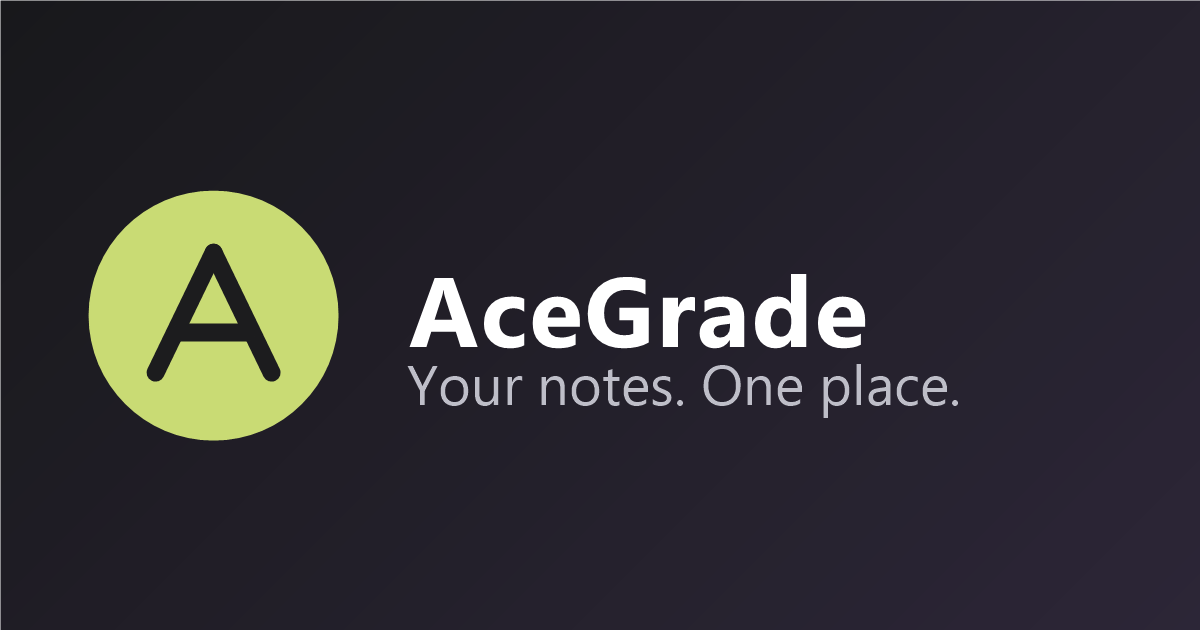
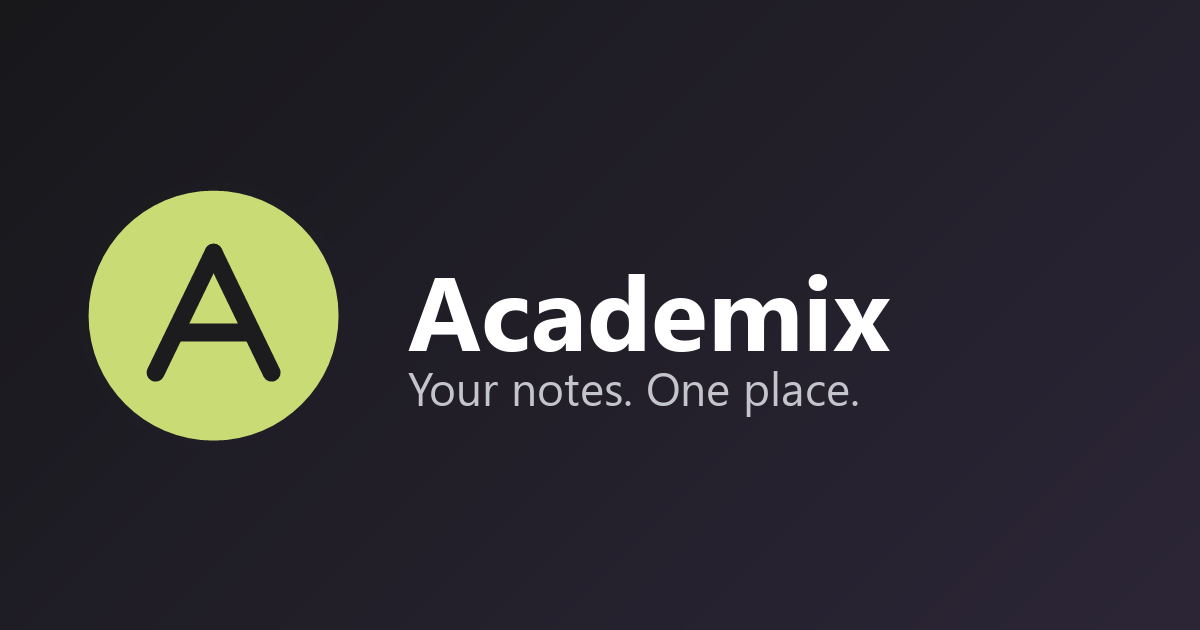
Added the SEO part

Changed region(s): [[0.3392, 0.4222, 0.8017, 0.6635]]

diff --git a/notes/engineering-mathematics-ii/index.html b/notes/engineering-mathematics-ii/index.html
@@ -13,13 +13,13 @@
   <meta property="og:url" content="https://academix.syntaxsyndicate.co.in/notes/engineering-mathematics-ii/">
   <meta property="og:type" content="article">
   <meta property="og:site_name" content="Academix">
-  <meta property="og:image" content="https://academix.syntaxsyndicate.co.in/icons/og-image.png">
+  <meta property="og:image" content="https://academix.syntaxsyndicate.co.in/icons/og.png?v=2">
 
   <!-- Twitter -->
   <meta name="twitter:card" content="summary_large_image">
   <meta name="twitter:title" content="Engineering Mathematics II Notes PDF — Free Engineering Study Material | Academix">
   <meta name="twitter:description" content="Matrices, linear algebra, vector calculus, ordinary differential equations, and Laplace transformation methods for engineering systems. 5 modules, 3 documents. First Year Computer Science &amp;amp; Engineering, Information Technology, Electronics &amp;amp; Communication, Mechanical Engineering, Civil Engine">
-  <meta name="twitter:image" content="https://academix.syntaxsyndicate.co.in/icons/og-image.png">
+  <meta name="twitter:image" content="https://academix.syntaxsyndicate.co.in/icons/og.png?v=2">
 
   <!-- JSON-LD -->
   <script type="application/ld+json">{"@context":"https://schema.org","@type":"WebPage","name":"Engineering Mathematics II Notes PDF","description":"Matrices, linear algebra, vector calculus, ordinary differential equations, and Laplace transformation methods for engineering systems. 5 modules, 3 documents. First Year Computer Science &amp; Engineering, Information Technology, Electronics &amp; Communication, Mechanical Engineering, Civil Engine","url":"https://academix.syntaxsyndicate.co.in/notes/engineering-mathematics-ii/","dateModified":"2026-11-20","publisher":{"@type":"Organization","name":"Academix","url":"https://academix.syntaxsyndicate.co.in"}}</script>

diff --git a/notes/engineering-mathematics-i/index.html b/notes/engineering-mathematics-i/index.html
@@ -13,13 +13,13 @@
   <meta property="og:url" content="https://academix.syntaxsyndicate.co.in/notes/engineering-mathematics-i/">
   <meta property="og:type" content="article">
   <meta property="og:site_name" content="Academix">
-  <meta property="og:image" content="https://academix.syntaxsyndicate.co.in/icons/og-image.png">
+  <meta property="og:image" content="https://academix.syntaxsyndicate.co.in/icons/og.png?v=2">
 
   <!-- Twitter -->
   <meta name="twitter:card" content="summary_large_image">
   <meta name="twitter:title" content="Engineering Mathematics I Notes PDF — Free Engineering Study Material | Academix">
   <meta name="twitter:description" content="Calculus, sequences, series, partial derivatives, and foundational mathematical principles for engineering disciplines. 5 modules, 3 documents. First Year Computer Science &amp;amp; Engineering, Information Technology, Electronics &amp;amp; Communication, Mechanical Engineering, Civil Engineering.">
-  <meta name="twitter:image" content="https://academix.syntaxsyndicate.co.in/icons/og-image.png">
+  <meta name="twitter:image" content="https://academix.syntaxsyndicate.co.in/icons/og.png?v=2">
 
   <!-- JSON-LD -->
   <script type="application/ld+json">{"@context":"https://schema.org","@type":"WebPage","name":"Engineering Mathematics I Notes PDF","description":"Calculus, sequences, series, partial derivatives, and foundational mathematical principles for engineering disciplines. 5 modules, 3 documents. First Year Computer Science &amp; Engineering, Information Technology, Electronics &amp; Communication, Mechanical Engineering, Civil Engineering.","url":"https://academix.syntaxsyndicate.co.in/notes/engineering-mathematics-i/","dateModified":"2026-11-20","publisher":{"@type":"Organization","name":"Academix","url":"https://academix.syntaxsyndicate.co.in"}}</script>

diff --git a/notes/engineering-physics/index.html b/notes/engineering-physics/index.html
@@ -13,13 +13,13 @@
   <meta property="og:url" content="https://academix.syntaxsyndicate.co.in/notes/engineering-physics/">
   <meta property="og:type" content="article">
   <meta property="og:site_name" content="Academix">
-  <meta property="og:image" content="https://academix.syntaxsyndicate.co.in/icons/og-image.png">
+  <meta property="og:image" content="https://academix.syntaxsyndicate.co.in/icons/og.png?v=2">
 
   <!-- Twitter -->
   <meta name="twitter:card" content="summary_large_image">
   <meta name="twitter:title" content="Engineering Physics Notes PDF — Free Engineering Study Material | Academix">
   <meta name="twitter:description" content="Mechanics, wave optics, oscillations, quantum basics, laser technology, and fibre optics with engineering laboratory applications. 5 modules, 3 documents. First Year Computer Science &amp;amp; Engineering, Information Technology, Electronics &amp;amp; Communication, Mechanical Engineering, Civil Engineering">
-  <meta name="twitter:image" content="https://academix.syntaxsyndicate.co.in/icons/og-image.png">
+  <meta name="twitter:image" content="https://academix.syntaxsyndicate.co.in/icons/og.png?v=2">
 
   <!-- JSON-LD -->
   <script type="application/ld+json">{"@context":"https://schema.org","@type":"WebPage","name":"Engineering Physics Notes PDF","description":"Mechanics, wave optics, oscillations, quantum basics, laser technology, and fibre optics with engineering laboratory applications. 5 modules, 3 documents. First Year Computer Science &amp; Engineering, Information Technology, Electronics &amp; Communication, Mechanical Engineering, Civil Engineering","url":"https://academix.syntaxsyndicate.co.in/notes/engineering-physics/","dateModified":"2026-11-20","publisher":{"@type":"Organization","name":"Academix","url":"https://academix.syntaxsyndicate.co.in"}}</script>

diff --git a/notes/computer-networks/index.html b/notes/computer-networks/index.html
@@ -13,13 +13,13 @@
   <meta property="og:url" content="https://academix.syntaxsyndicate.co.in/notes/computer-networks/">
   <meta property="og:type" content="article">
   <meta property="og:site_name" content="Academix">
-  <meta property="og:image" content="https://academix.syntaxsyndicate.co.in/icons/og-image.png">
+  <meta property="og:image" content="https://academix.syntaxsyndicate.co.in/icons/og.png?v=2">
 
   <!-- Twitter -->
   <meta name="twitter:card" content="summary_large_image">
   <meta name="twitter:title" content="Computer Networks Notes PDF — Free Engineering Study Material | Academix">
   <meta name="twitter:description" content="OSI and TCP/IP layered architectures, data link framing, IPv4/IPv6 addressing, routing protocols, TCP congestion control, and application protocols. 6 modules, 3 documents. Second Year Computer Science &amp;amp; Engineering, Information Technology, Electronics &amp;amp; Communication.">
-  <meta name="twitter:image" content="https://academix.syntaxsyndicate.co.in/icons/og-image.png">
+  <meta name="twitter:image" content="https://academix.syntaxsyndicate.co.in/icons/og.png?v=2">
 
   <!-- JSON-LD -->
   <script type="application/ld+json">{"@context":"https://schema.org","@type":"WebPage","name":"Computer Networks Notes PDF","description":"OSI and TCP/IP layered architectures, data link framing, IPv4/IPv6 addressing, routing protocols, TCP congestion control, and application protocols. 6 modules, 3 documents. Second Year Computer Science &amp; Engineering, Information Technology, Electronics &amp; Communication.","url":"https://academix.syntaxsyndicate.co.in/notes/computer-networks/","dateModified":"2026-11-20","publisher":{"@type":"Organization","name":"Academix","url":"https://academix.syntaxsyndicate.co.in"}}</script>

diff --git a/notes/mobile-application-development/index.html b/notes/mobile-application-development/index.html
@@ -13,13 +13,13 @@
   <meta property="og:url" content="https://academix.syntaxsyndicate.co.in/notes/mobile-application-development/">
   <meta property="og:type" content="article">
   <meta property="og:site_name" content="Academix">
-  <meta property="og:image" content="https://academix.syntaxsyndicate.co.in/icons/og-image.png">
+  <meta property="og:image" content="https://academix.syntaxsyndicate.co.in/icons/og.png?v=2">
 
   <!-- Twitter -->
   <meta name="twitter:card" content="summary_large_image">
   <meta name="twitter:title" content="Mobile Application Development Notes PDF — Free Engineering Study Material | Academix">
   <meta name="twitter:description" content="Mobile user interface architecture, Android activity lifecycle, responsive mobile layouts, local persistence, background tasks, and REST integration. 6 modules, 3 documents. Fourth Year Computer Science &amp;amp; Engineering, Information Technology.">
-  <meta name="twitter:image" content="https://academix.syntaxsyndicate.co.in/icons/og-image.png">
+  <meta name="twitter:image" content="https://academix.syntaxsyndicate.co.in/icons/og.png?v=2">
 
   <!-- JSON-LD -->
   <script type="application/ld+json">{"@context":"https://schema.org","@type":"WebPage","name":"Mobile Application Development Notes PDF","description":"Mobile user interface architecture, Android activity lifecycle, responsive mobile layouts, local persistence, background tasks, and REST integration. 6 modules, 3 documents. Fourth Year Computer Science &amp; Engineering, Information Technology.","url":"https://academix.syntaxsyndicate.co.in/notes/mobile-application-development/","dateModified":"2026-11-20","publisher":{"@type":"Organization","name":"Academix","url":"https://academix.syntaxsyndicate.co.in"}}</script>

diff --git a/notes/major-capstone-project/index.html b/notes/major-capstone-project/index.html
@@ -13,13 +13,13 @@
   <meta property="og:url" content="https://academix.syntaxsyndicate.co.in/notes/major-capstone-project/">
   <meta property="og:type" content="article">
   <meta property="og:site_name" content="Academix">
-  <meta property="og:image" content="https://academix.syntaxsyndicate.co.in/icons/og-image.png">
+  <meta property="og:image" content="https://academix.syntaxsyndicate.co.in/icons/og.png?v=2">
 
   <!-- Twitter -->
   <meta name="twitter:card" content="summary_large_image">
   <meta name="twitter:title" content="Major Capstone Project Notes PDF — Free Engineering Study Material | Academix">
   <meta name="twitter:description" content="Comprehensive engineering project execution: literature review, problem formulation, system design, prototype implementation, testing, and technical documentation. 6 modules, 3 documents. Fourth Year Computer Science &amp;amp; Engineering, Information Technology.">
-  <meta name="twitter:image" content="https://academix.syntaxsyndicate.co.in/icons/og-image.png">
+  <meta name="twitter:image" content="https://academix.syntaxsyndicate.co.in/icons/og.png?v=2">
 
   <!-- JSON-LD -->
   <script type="application/ld+json">{"@context":"https://schema.org","@type":"WebPage","name":"Major Capstone Project Notes PDF","description":"Comprehensive engineering project execution: literature review, problem formulation, system design, prototype implementation, testing, and technical documentation. 6 modules, 3 documents. Fourth Year Computer Science &amp; Engineering, Information Technology.","url":"https://academix.syntaxsyndicate.co.in/notes/major-capstone-project/","dateModified":"2026-11-20","publisher":{"@type":"Organization","name":"Academix","url":"https://academix.syntaxsyndicate.co.in"}}</script>

diff --git a/notes/information-security/index.html b/notes/information-security/index.html
@@ -13,13 +13,13 @@
   <meta property="og:url" content="https://academix.syntaxsyndicate.co.in/notes/information-security/">
   <meta property="og:type" content="article">
   <meta property="og:site_name" content="Academix">
-  <meta property="og:image" content="https://academix.syntaxsyndicate.co.in/icons/og-image.png">
+  <meta property="og:image" content="https://academix.syntaxsyndicate.co.in/icons/og.png?v=2">
 
   <!-- Twitter -->
   <meta name="twitter:card" content="summary_large_image">
   <meta name="twitter:title" content="Information Security Notes PDF — Free Engineering Study Material | Academix">
   <meta name="twitter:description" content="Classical ciphers, symmetric cryptosystems (AES), asymmetric key cryptography (RSA, ECC), digital signatures, cryptographic hashes, and web vulnerability mitigation. 6 modules, 3 documents. Fourth Year Computer Science &amp;amp; Engineering, Information Technology.">
-  <meta name="twitter:image" content="https://academix.syntaxsyndicate.co.in/icons/og-image.png">
+  <meta name="twitter:image" content="https://academix.syntaxsyndicate.co.in/icons/og.png?v=2">
 
   <!-- JSON-LD -->
   <script type="application/ld+json">{"@context":"https://schema.org","@type":"WebPage","name":"Information Security Notes PDF","description":"Classical ciphers, symmetric cryptosystems (AES), asymmetric key cryptography (RSA, ECC), digital signatures, cryptographic hashes, and web vulnerability mitigation. 6 modules, 3 documents. Fourth Year Computer Science &amp; Engineering, Information Technology.","url":"https://academix.syntaxsyndicate.co.in/notes/information-security/","dateModified":"2026-11-20","publisher":{"@type":"Organization","name":"Academix","url":"https://academix.syntaxsyndicate.co.in"}}</script>

diff --git a/notes/artificial-intelligence/index.html b/notes/artificial-intelligence/index.html
@@ -13,13 +13,13 @@
   <meta property="og:url" content="https://academix.syntaxsyndicate.co.in/notes/artificial-intelligence/">
   <meta property="og:type" content="article">
   <meta property="og:site_name" content="Academix">
-  <meta property="og:image" content="https://academix.syntaxsyndicate.co.in/icons/og-image.png">
+  <meta property="og:image" content="https://academix.syntaxsyndicate.co.in/icons/og.png?v=2">
 
   <!-- Twitter -->
   <meta name="twitter:card" content="summary_large_image">
   <meta name="twitter:title" content="Artificial Intelligence Notes PDF — Free Engineering Study Material | Academix">
   <meta name="twitter:description" content="Intelligent agents, uninformed and heuristic search (A*), constraint satisfaction, game-playing minimax, knowledge representation, and probabilistic reasoning. 6 modules, 3 documents. Third Year Computer Science &amp;amp; Engineering, Information Technology.">
-  <meta name="twitter:image" content="https://academix.syntaxsyndicate.co.in/icons/og-image.png">
+  <meta name="twitter:image" content="https://academix.syntaxsyndicate.co.in/icons/og.png?v=2">
 
   <!-- JSON-LD -->
   <script type="application/ld+json">{"@context":"https://schema.org","@type":"WebPage","name":"Artificial Intelligence Notes PDF","description":"Intelligent agents, uninformed and heuristic search (A*), constraint satisfaction, game-playing minimax, knowledge representation, and probabilistic reasoning. 6 modules, 3 documents. Third Year Computer Science &amp; Engineering, Information Technology.","url":"https://academix.syntaxsyndicate.co.in/notes/artificial-intelligence/","dateModified":"2026-11-20","publisher":{"@type":"Organization","name":"Academix","url":"https://academix.syntaxsyndicate.co.in"}}</script>

diff --git a/notes/design-analysis-of-algorithms/index.html b/notes/design-analysis-of-algorithms/index.html
@@ -13,13 +13,13 @@
   <meta property="og:url" content="https://academix.syntaxsyndicate.co.in/notes/design-analysis-of-algorithms/">
   <meta property="og:type" content="article">
   <meta property="og:site_name" content="Academix">
-  <meta property="og:image" content="https://academix.syntaxsyndicate.co.in/icons/og-image.png">
+  <meta property="og:image" content="https://academix.syntaxsyndicate.co.in/icons/og.png?v=2">
 
   <!-- Twitter -->
   <meta name="twitter:card" content="summary_large_image">
   <meta name="twitter:title" content="Design &amp; Analysis of Algorithms Notes PDF — Free Engineering Study Material | Academix">
   <meta name="twitter:description" content="Algorithm design paradigms: divide and conquer, greedy strategies, dynamic programming, backtracking, branch &amp; bound, and NP-completeness. 6 modules, 3 documents. Third Year Computer Science &amp;amp; Engineering, Information Technology.">
-  <meta name="twitter:image" content="https://academix.syntaxsyndicate.co.in/icons/og-image.png">
+  <meta name="twitter:image" content="https://academix.syntaxsyndicate.co.in/icons/og.png?v=2">
 
   <!-- JSON-LD -->
   <script type="application/ld+json">{"@context":"https://schema.org","@type":"WebPage","name":"Design & Analysis of Algorithms Notes PDF","description":"Algorithm design paradigms: divide and conquer, greedy strategies, dynamic programming, backtracking, branch & bound, and NP-completeness. 6 modules, 3 documents. Third Year Computer Science &amp; Engineering, Information Technology.","url":"https://academix.syntaxsyndicate.co.in/notes/design-analysis-of-algorithms/","dateModified":"2026-11-20","publisher":{"@type":"Organization","name":"Academix","url":"https://academix.syntaxsyndicate.co.in"}}</script>

diff --git a/notes/distributed-systems/index.html b/notes/distributed-systems/index.html
@@ -13,13 +13,13 @@
   <meta property="og:url" content="https://academix.syntaxsyndicate.co.in/notes/distributed-systems/">
   <meta property="og:type" content="article">
   <meta property="og:site_name" content="Academix">
-  <meta property="og:image" content="https://academix.syntaxsyndicate.co.in/icons/og-image.png">
+  <meta property="og:image" content="https://academix.syntaxsyndicate.co.in/icons/og.png?v=2">
 
   <!-- Twitter -->
   <meta name="twitter:card" content="summary_large_image">
   <meta name="twitter:title" content="Distributed Systems Notes PDF — Free Engineering Study Material | Academix">
   <meta name="twitter:description" content="Distributed system models, RPC communication, logical clocks (Lamport, Vector), distributed mutual exclusion, Paxos/Raft consensus, and Byzantine fault tolerance. 6 modules, 3 documents. Fourth Year Computer Science &amp;amp; Engineering, Information Technology.">
-  <meta name="twitter:image" content="https://academix.syntaxsyndicate.co.in/icons/og-image.png">
+  <meta name="twitter:image" content="https://academix.syntaxsyndicate.co.in/icons/og.png?v=2">
 
   <!-- JSON-LD -->
   <script type="application/ld+json">{"@context":"https://schema.org","@type":"WebPage","name":"Distributed Systems Notes PDF","description":"Distributed system models, RPC communication, logical clocks (Lamport, Vector), distributed mutual exclusion, Paxos/Raft consensus, and Byzantine fault tolerance. 6 modules, 3 documents. Fourth Year Computer Science &amp; Engineering, Information Technology.","url":"https://academix.syntaxsyndicate.co.in/notes/distributed-systems/","dateModified":"2026-11-20","publisher":{"@type":"Organization","name":"Academix","url":"https://academix.syntaxsyndicate.co.in"}}</script>

diff --git a/notes/data-structures-algorithms/index.html b/notes/data-structures-algorithms/index.html
@@ -13,13 +13,13 @@
   <meta property="og:url" content="https://academix.syntaxsyndicate.co.in/notes/data-structures-algorithms/">
   <meta property="og:type" content="article">
   <meta property="og:site_name" content="Academix">
-  <meta property="og:image" content="https://academix.syntaxsyndicate.co.in/icons/og-image.png">
+  <meta property="og:image" content="https://academix.syntaxsyndicate.co.in/icons/og.png?v=2">
 
   <!-- Twitter -->
   <meta name="twitter:card" content="summary_large_image">
   <meta name="twitter:title" content="Data Structures &amp; Algorithms Notes PDF — Free Engineering Study Material | Academix">
   <meta name="twitter:description" content="Linear and non-linear data structures, asymptotic complexity analysis, stacks, queues, linked lists, binary trees, heaps, and graph traversals. 6 modules, 3 documents. Second Year Computer Science &amp;amp; Engineering, Information Technology.">
-  <meta name="twitter:image" content="https://academix.syntaxsyndicate.co.in/icons/og-image.png">
+  <meta name="twitter:image" content="https://academix.syntaxsyndicate.co.in/icons/og.png?v=2">
 
   <!-- JSON-LD -->
   <script type="application/ld+json">{"@context":"https://schema.org","@type":"WebPage","name":"Data Structures & Algorithms Notes PDF","description":"Linear and non-linear data structures, asymptotic complexity analysis, stacks, queues, linked lists, binary trees, heaps, and graph traversals. 6 modules, 3 documents. Second Year Computer Science &amp; Engineering, Information Technology.","url":"https://academix.syntaxsyndicate.co.in/notes/data-structures-algorithms/","dateModified":"2026-11-20","publisher":{"@type":"Organization","name":"Academix","url":"https://academix.syntaxsyndicate.co.in"}}</script>

diff --git a/notes/machine-learning/index.html b/notes/machine-learning/index.html
@@ -13,13 +13,13 @@
   <meta property="og:url" content="https://academix.syntaxsyndicate.co.in/notes/machine-learning/">
   <meta property="og:type" content="article">
   <meta property="og:site_name" content="Academix">
-  <meta property="og:image" content="https://academix.syntaxsyndicate.co.in/icons/og-image.png">
+  <meta property="og:image" content="https://academix.syntaxsyndicate.co.in/icons/og.png?v=2">
 
   <!-- Twitter -->
   <meta name="twitter:card" content="summary_large_image">
   <meta name="twitter:title" content="Machine Learning Notes PDF — Free Engineering Study Material | Academix">
   <meta name="twitter:description" content="Supervised regression and classification, decision trees, support vector machines, k-means clustering, model evaluation metrics, and deep neural network fundamentals. 6 modules, 3 documents. Fourth Year Computer Science &amp;amp; Engineering, Information Technology.">
-  <meta name="twitter:image" content="https://academix.syntaxsyndicate.co.in/icons/og-image.png">
+  <meta name="twitter:image" content="https://academix.syntaxsyndicate.co.in/icons/og.png?v=2">
 
   <!-- JSON-LD -->
   <script type="application/ld+json">{"@context":"https://schema.org","@type":"WebPage","name":"Machine Learning Notes PDF","description":"Supervised regression and classification, decision trees, support vector machines, k-means clustering, model evaluation metrics, and deep neural network fundamentals. 6 modules, 3 documents. Fourth Year Computer Science &amp; Engineering, Information Technology.","url":"https://academix.syntaxsyndicate.co.in/notes/machine-learning/","dateModified":"2026-11-20","publisher":{"@type":"Organization","name":"Academix","url":"https://academix.syntaxsyndicate.co.in"}}</script>
